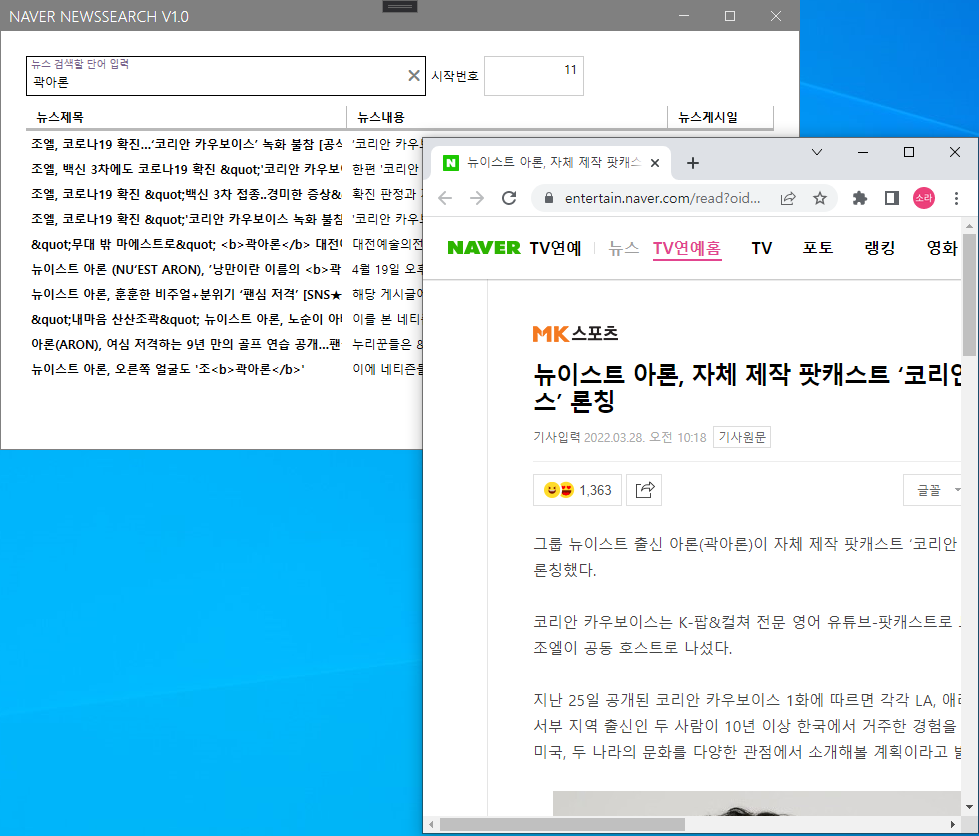
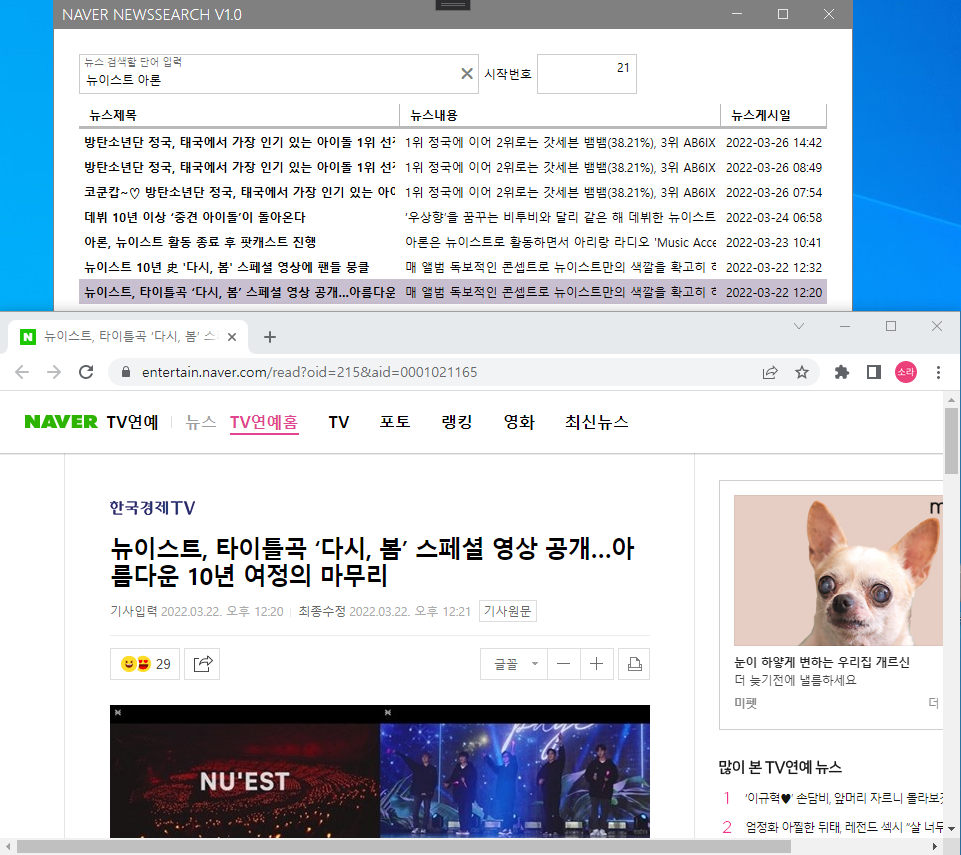
네이버 뉴스검색 검색결과 html 태그 제거

diff --git a/portpolio/WpfPortpolio/WpfNaverNewsSearch/MainWindow.xaml.cs b/portpolio/WpfPortpolio/WpfNaverNewsSearch/MainWindow.xaml.cs
@@ -7,6 +7,7 @@ using System.IO;
 using System.Linq;
 using System.Net;
 using System.Text;
+using System.Text.RegularExpressions;
 using System.Threading.Tasks;
 using System.Windows;
 using System.Windows.Controls;
@@ -91,10 +92,12 @@ namespace WpfNaverNewsSearch
                 var temp = DateTime.Parse(item["pubDate"].ToString());
                 NewsItem news = new NewsItem()
                 {
-                    Title = item["title"].ToString(),
+                    Title = Regex.Replace(
+                    item["title"].ToString(), @"<(.|\n)*?>", string.Empty),
                     OriginalLink = item["originallink"].ToString(),
                     Link = item["link"].ToString(),
-                    Description = item["description"].ToString(),
+                    Description = Regex.Replace(
+                    item["description"].ToString(), @"<(.|\n)*?>", string.Empty),
                     PubDate = temp.ToString("yyyy-MM-dd HH:mm")
                 };
 
